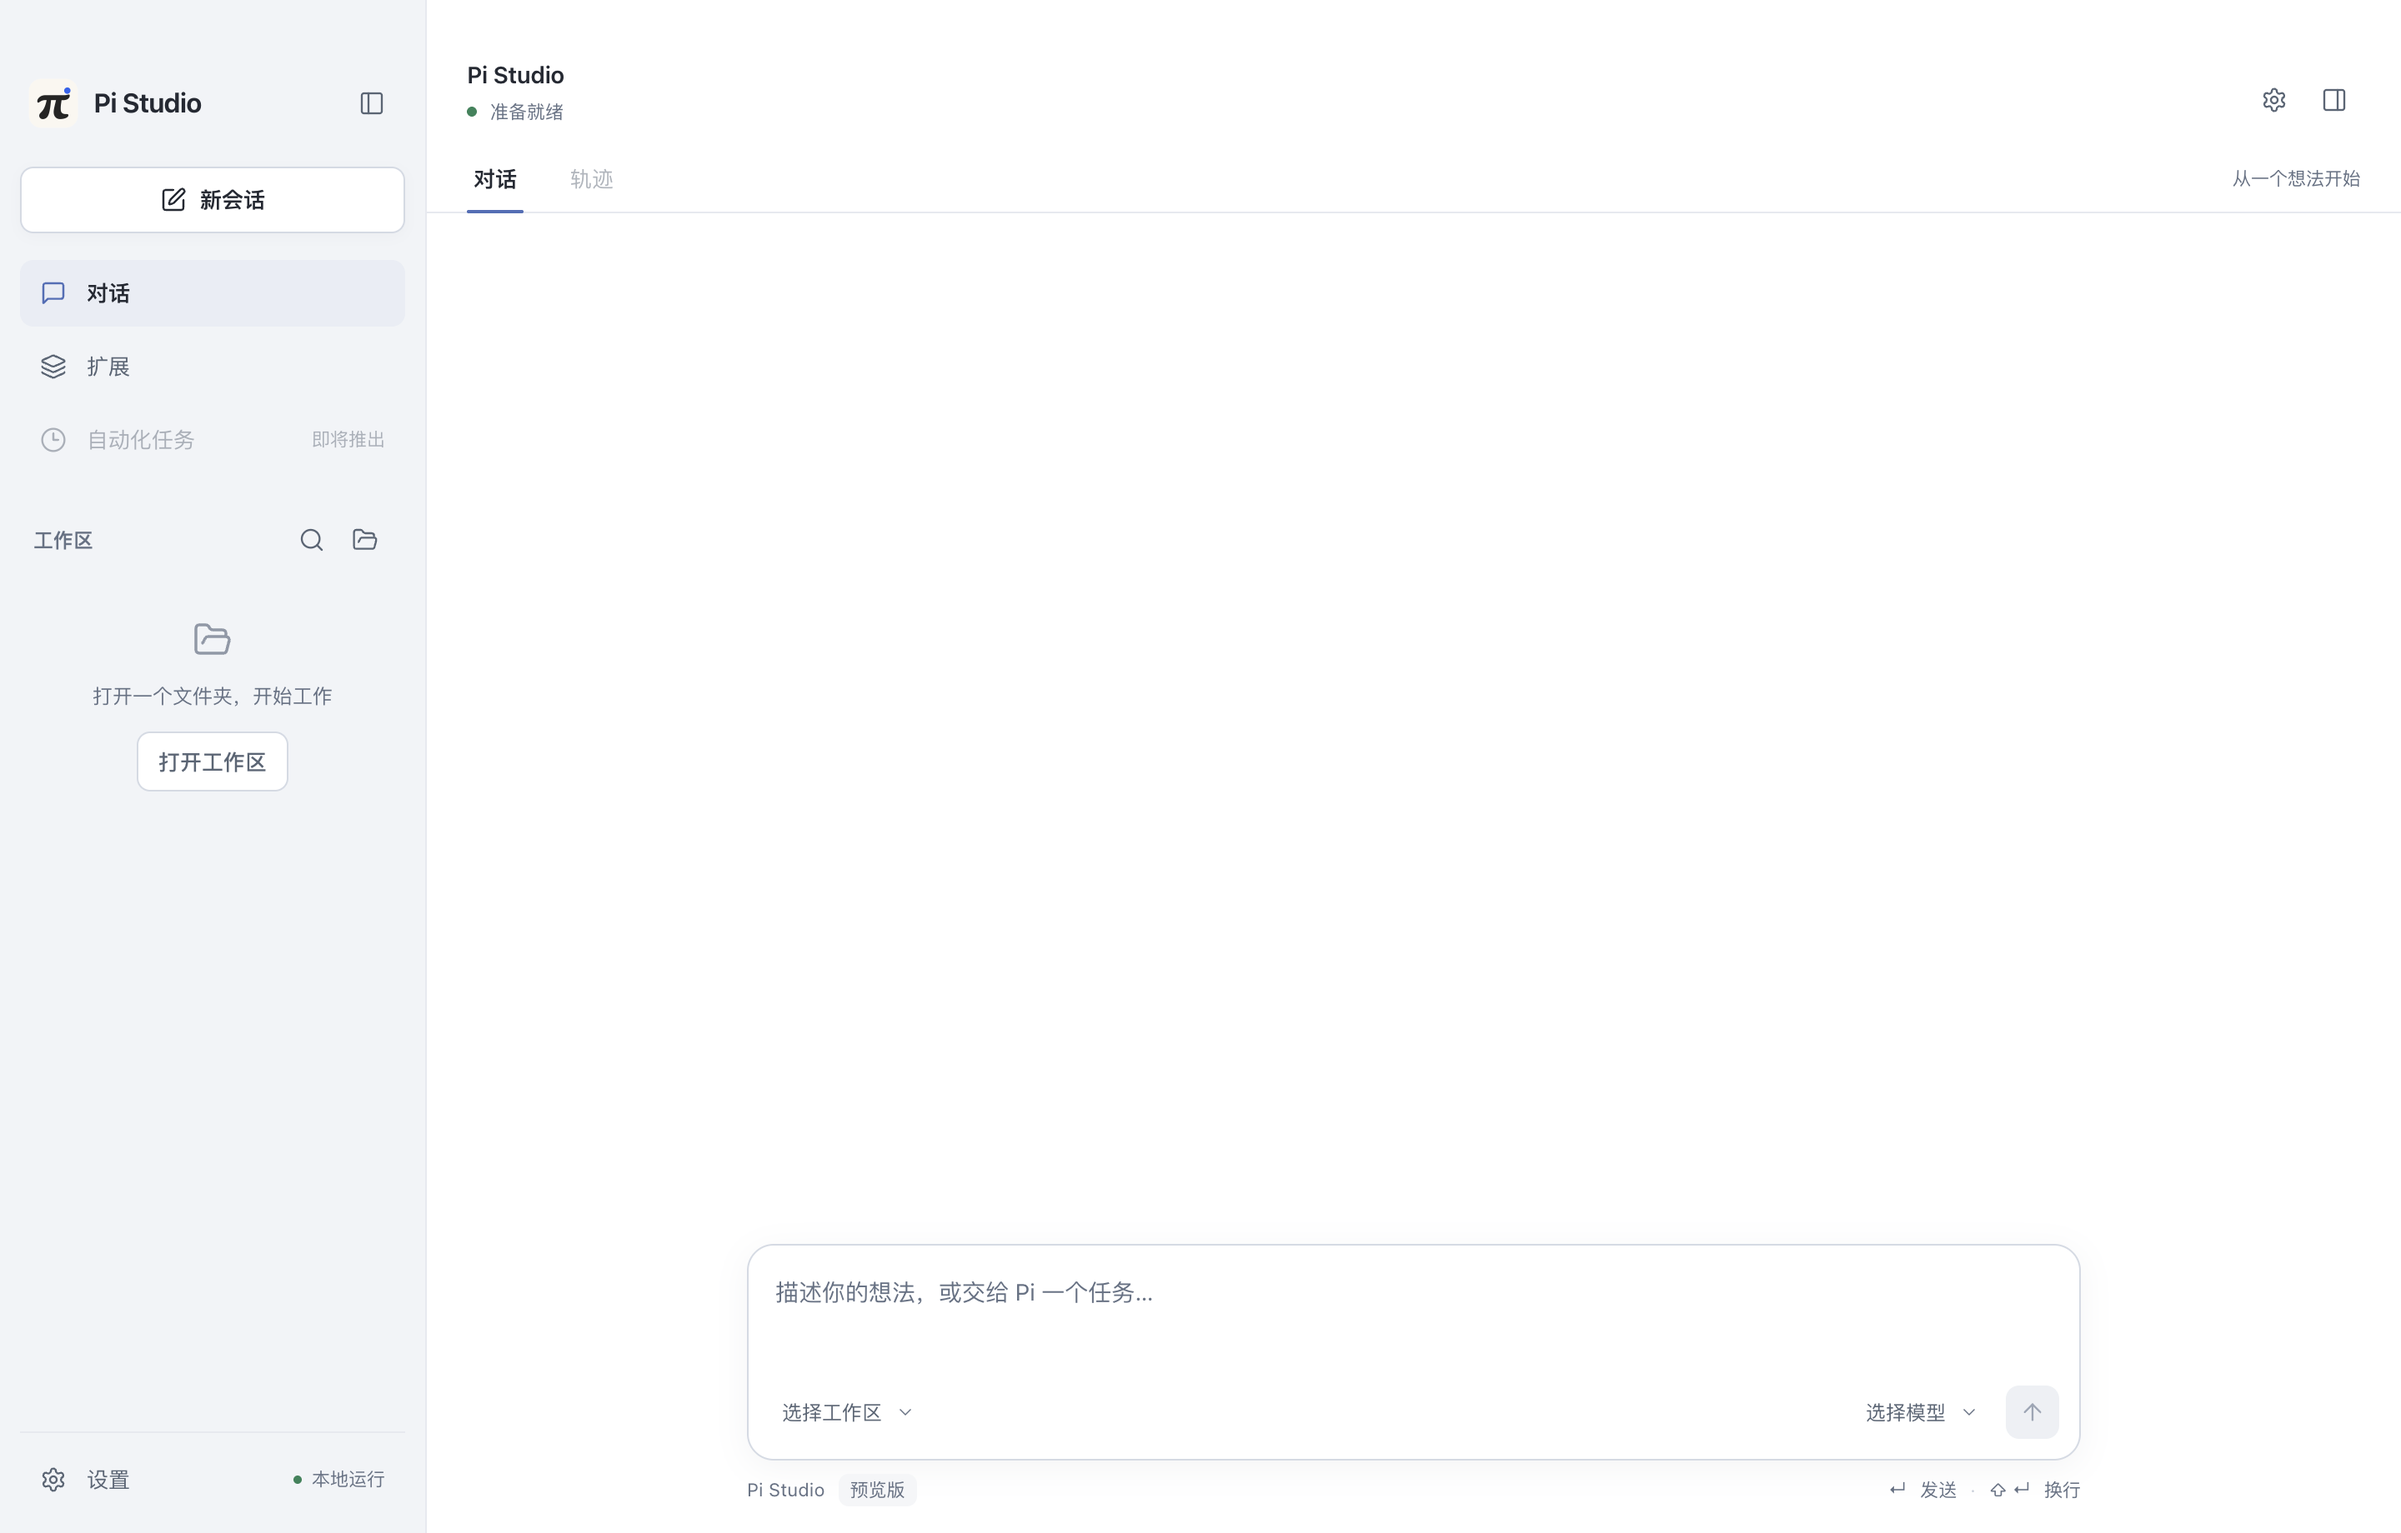
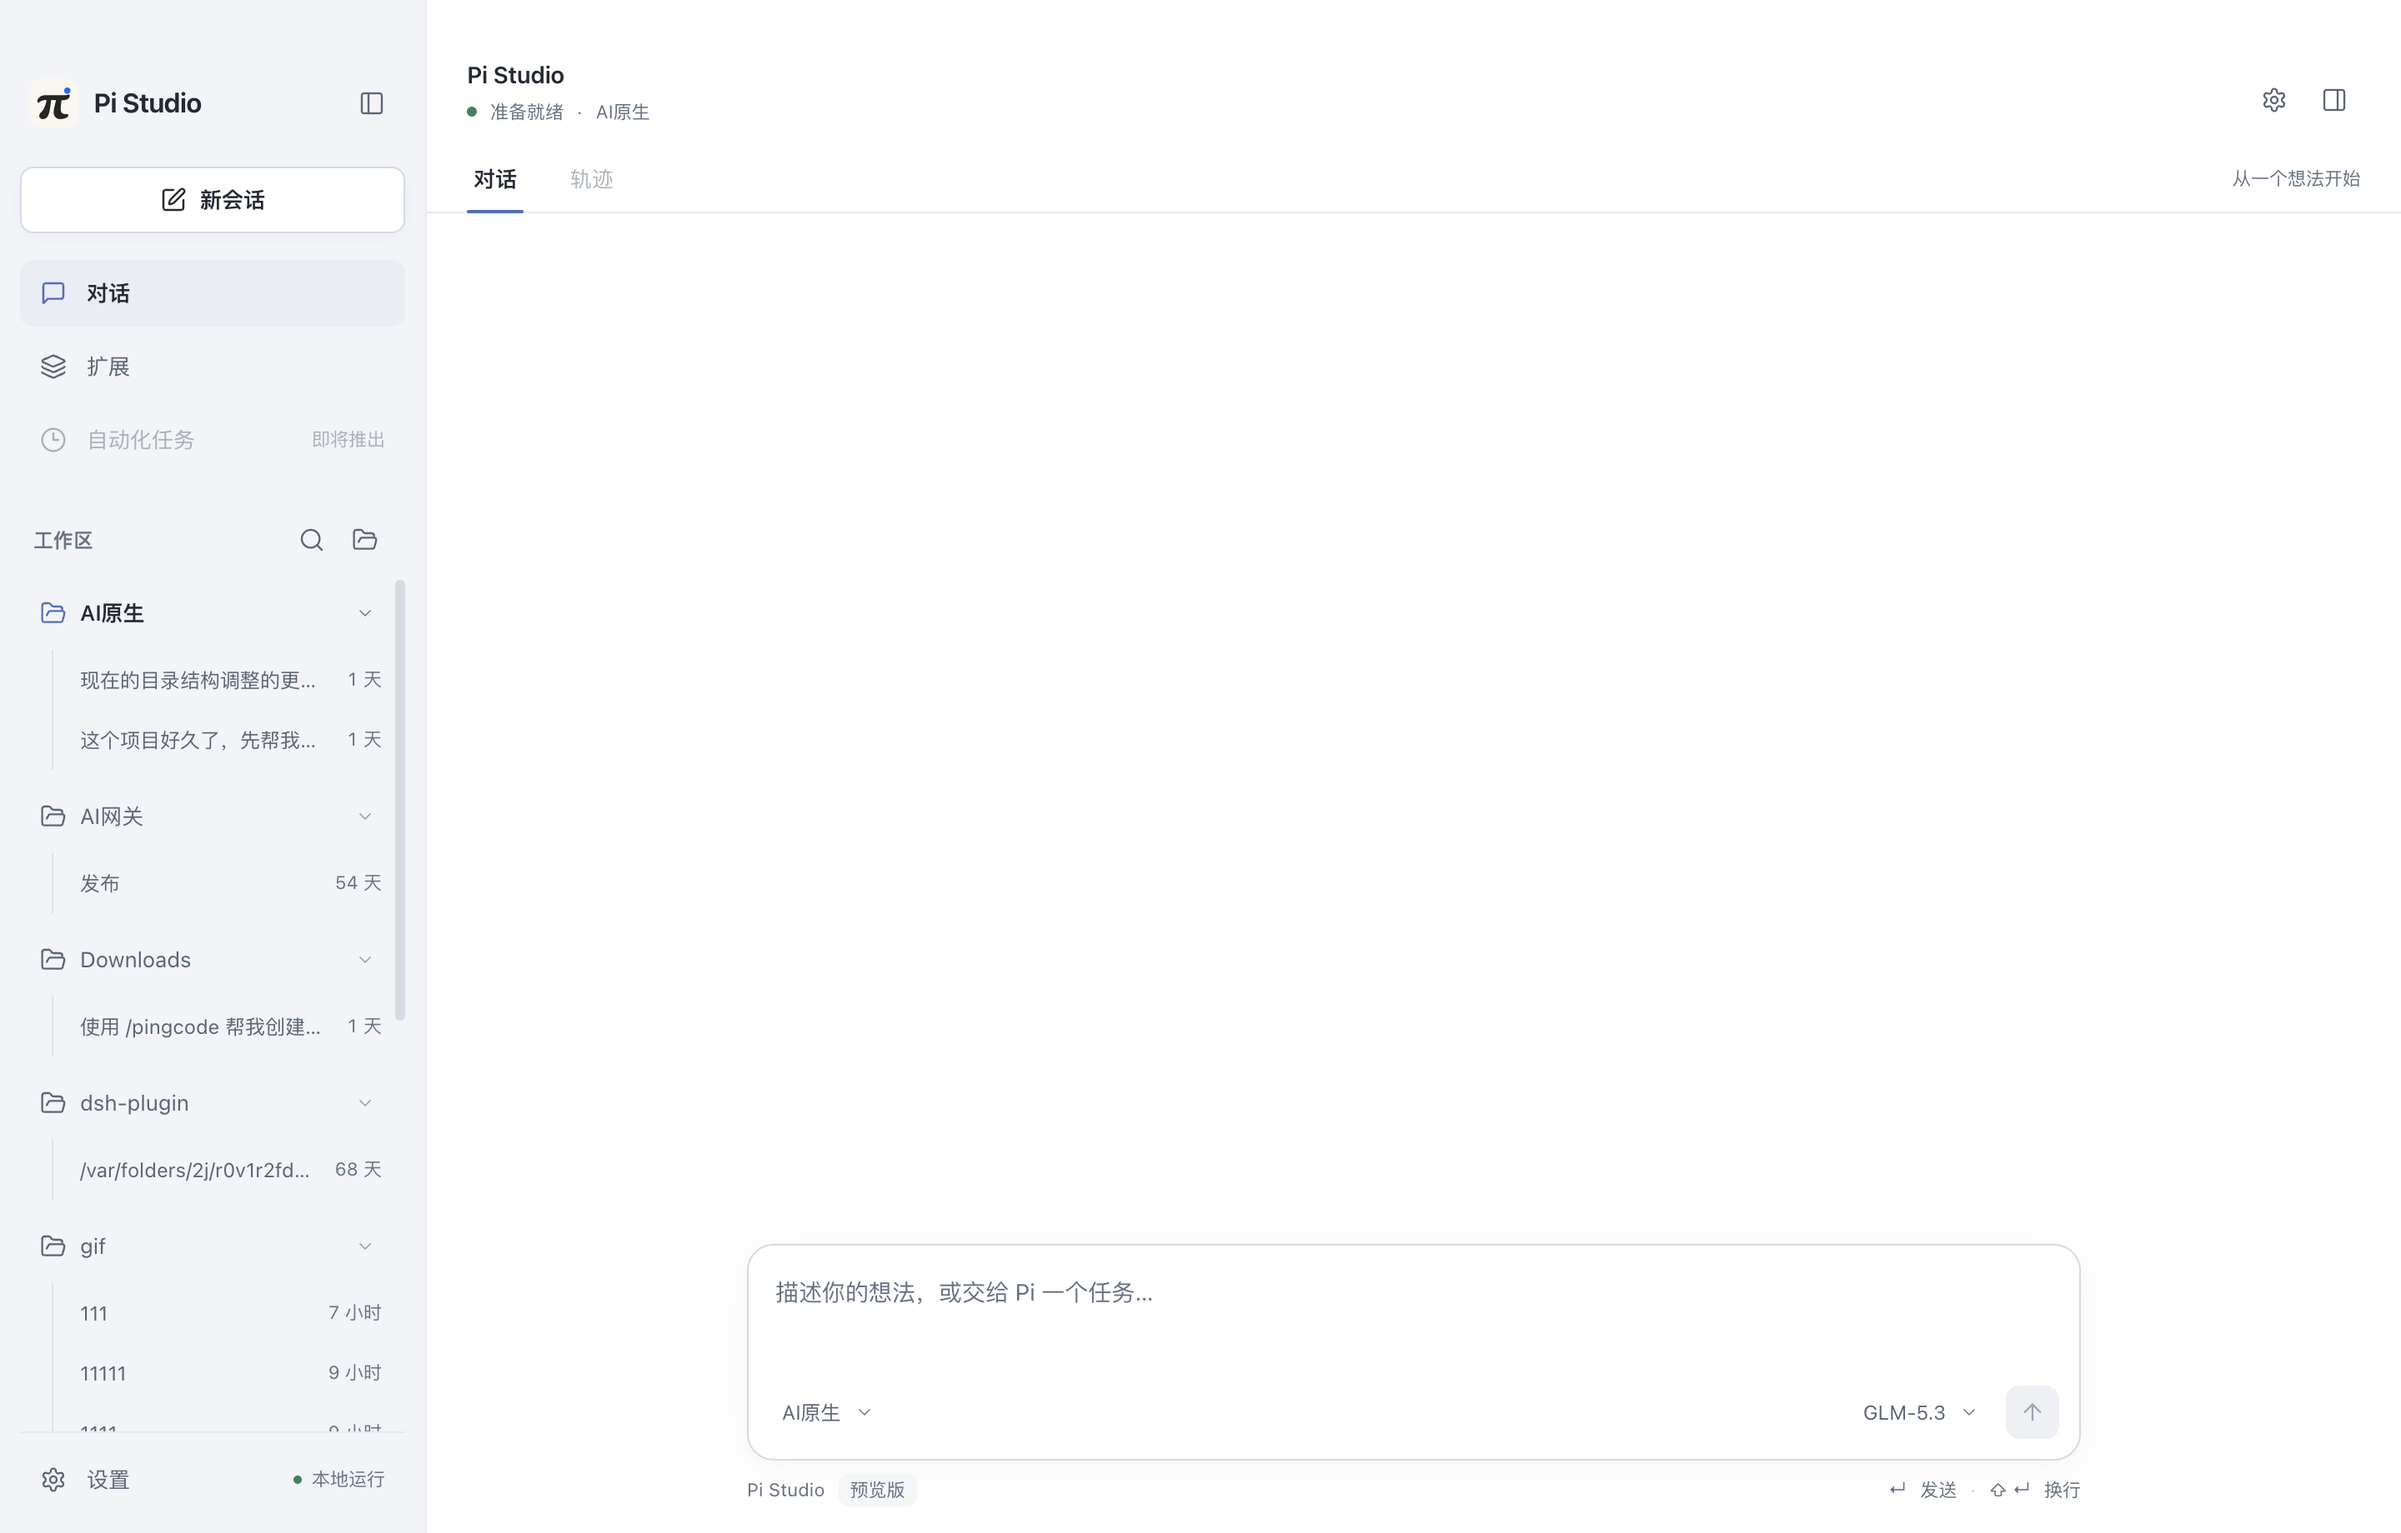
feat(chat): 空对话页显示工作区加载状态

diff --git a/web/src/App.tsx b/web/src/App.tsx
@@ -63,6 +63,7 @@ function relativeTime(ms: number): string {
 
 export function App() {
   const [workspaces, setWorkspaces] = useState<PiWorkspace[]>([]);
+  const [stateLoading, setStateLoading] = useState(true);
   const [workspace, setWorkspace] = useState('');
   const [model, setModel] = useState('');
   const [expanded, setExpanded] = useState<Set<string>>(new Set());
@@ -109,15 +110,20 @@ export function App() {
   const originalMcpArgsRef = useRef<string[] | null>(null);
 
   const loadState = useCallback(async () => {
-    const next = await window.piApi.state();
-    setWorkspaces(next.workspaces);
-    setModel(next.model.label);
-    setExpanded((current) => {
-      const ids = new Set(current);
-      for (const item of next.workspaces) ids.add(item.cwd);
-      return ids;
-    });
-    setWorkspace((current) => current || next.workspaces[0]?.cwd || next.cwd);
+    setStateLoading(true);
+    try {
+      const next = await window.piApi.state();
+      setWorkspaces(next.workspaces);
+      setModel(next.model.label);
+      setExpanded((current) => {
+        const ids = new Set(current);
+        for (const item of next.workspaces) ids.add(item.cwd);
+        return ids;
+      });
+      setWorkspace((current) => current || next.workspaces[0]?.cwd || next.cwd);
+    } finally {
+      setStateLoading(false);
+    }
   }, []);
 
   async function openSettings(tab?: typeof settingsTab) {
@@ -543,7 +549,8 @@ export function App() {
         </div>
         {workspaceSearchOpen && <div className="workspace-search"><Search /><input autoFocus aria-label="搜索工作区或会话" placeholder="搜索工作区或会话…" value={workspaceQuery} onChange={(event) => setWorkspaceQuery(event.target.value)} /></div>}
         <div className="workspace-list">
-          {visibleWorkspaces.map((item) => {
+          {stateLoading && workspaces.length === 0 && <div className="sidebar-empty"><LoaderCircle className="spin" /><span>正在加载工作区…</span></div>}
+          {!(stateLoading && workspaces.length === 0) && visibleWorkspaces.map((item) => {
             const isOpen = expanded.has(item.cwd);
             const isActive = workspace === item.cwd;
             return (
@@ -584,7 +591,7 @@ export function App() {
               </div>
             );
           })}
-          {visibleWorkspaces.length === 0 && <div className="sidebar-empty"><FolderOpen /><span>{workspaceQuery ? '没有匹配的工作区或会话' : '打开一个文件夹，开始工作'}</span>{!workspaceQuery && <button className="settings-outline" onClick={chooseFile}>打开工作区</button>}</div>}
+          {!stateLoading && visibleWorkspaces.length === 0 && <div className="sidebar-empty"><FolderOpen /><span>{workspaceQuery ? '没有匹配的工作区或会话' : '打开一个文件夹，开始工作'}</span>{!workspaceQuery && <button className="settings-outline" onClick={chooseFile}>打开工作区</button>}</div>}
         </div>
         <div className="sidebar-bottom">
           <button className="bottom-row" title="设置" onClick={() => void openSettings()}><Settings /><span>设置</span><span className="status"><i />本地运行</span></button>
